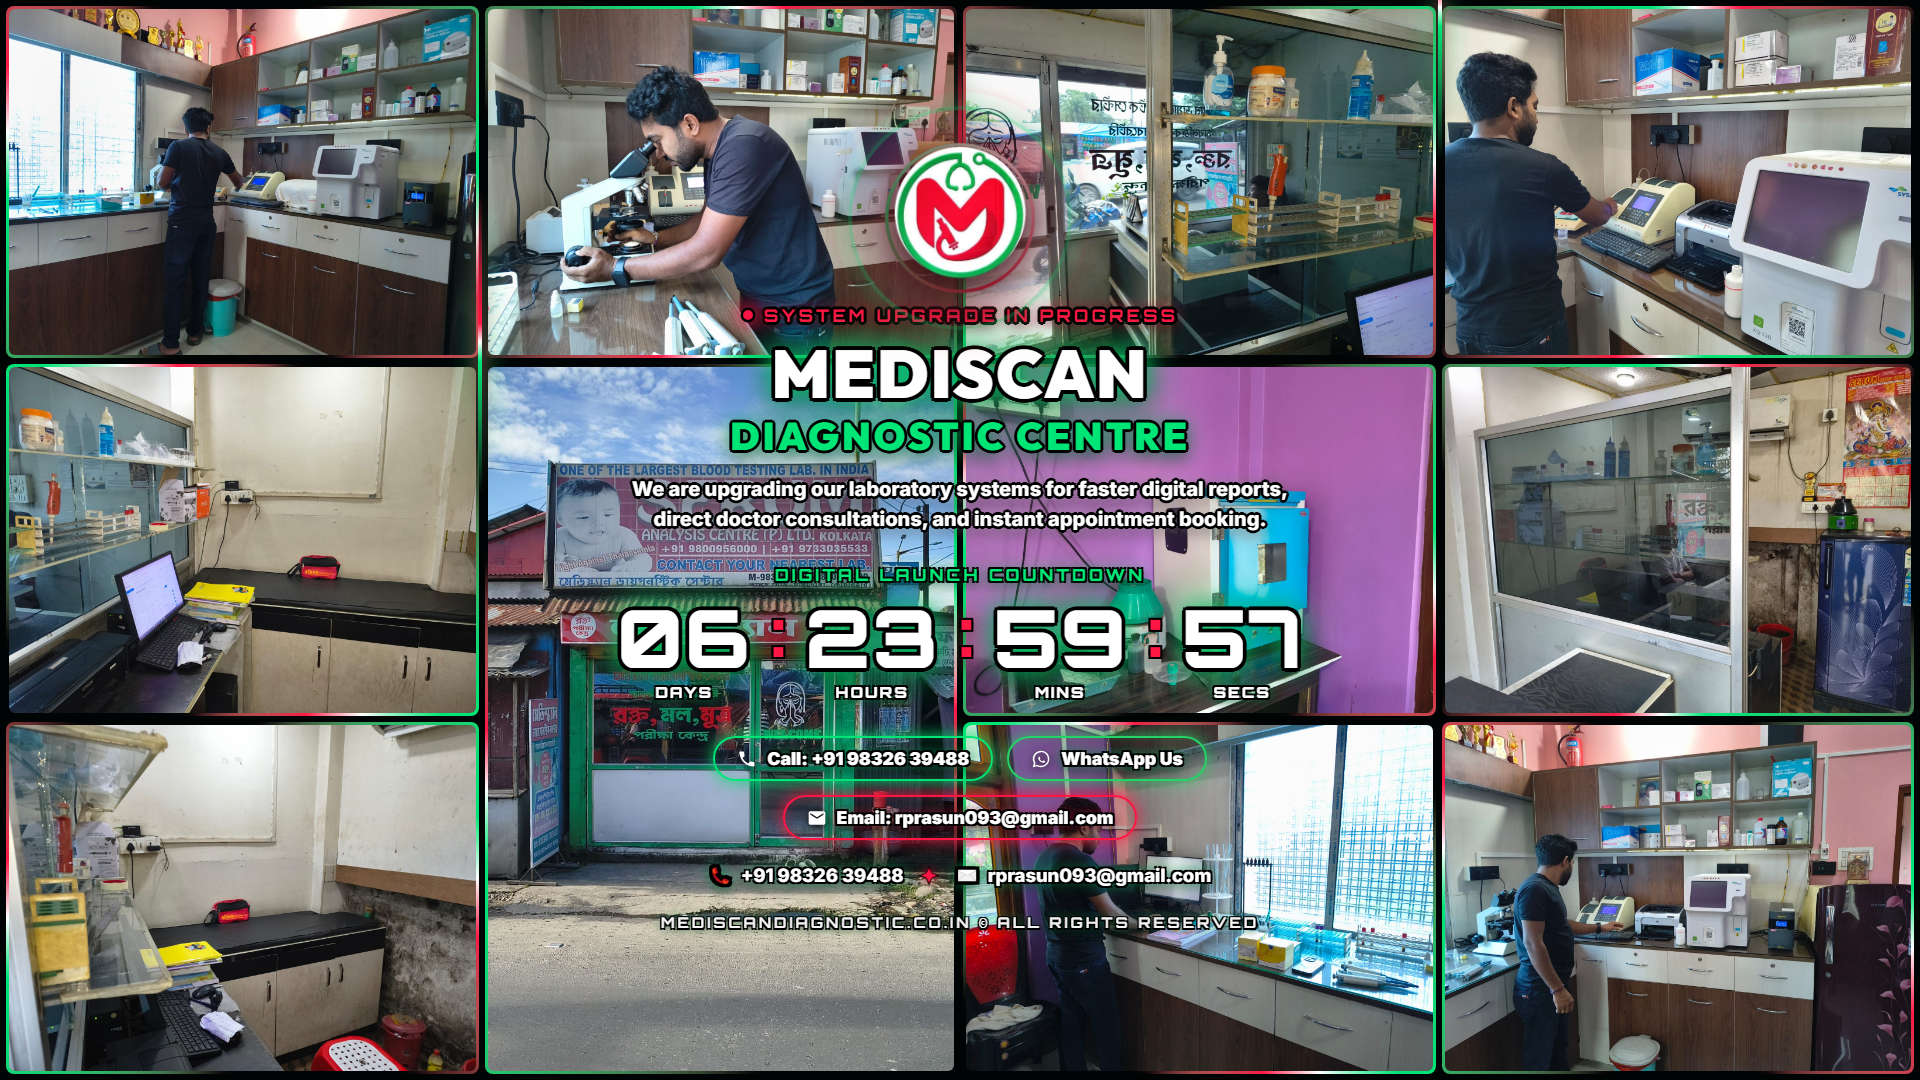
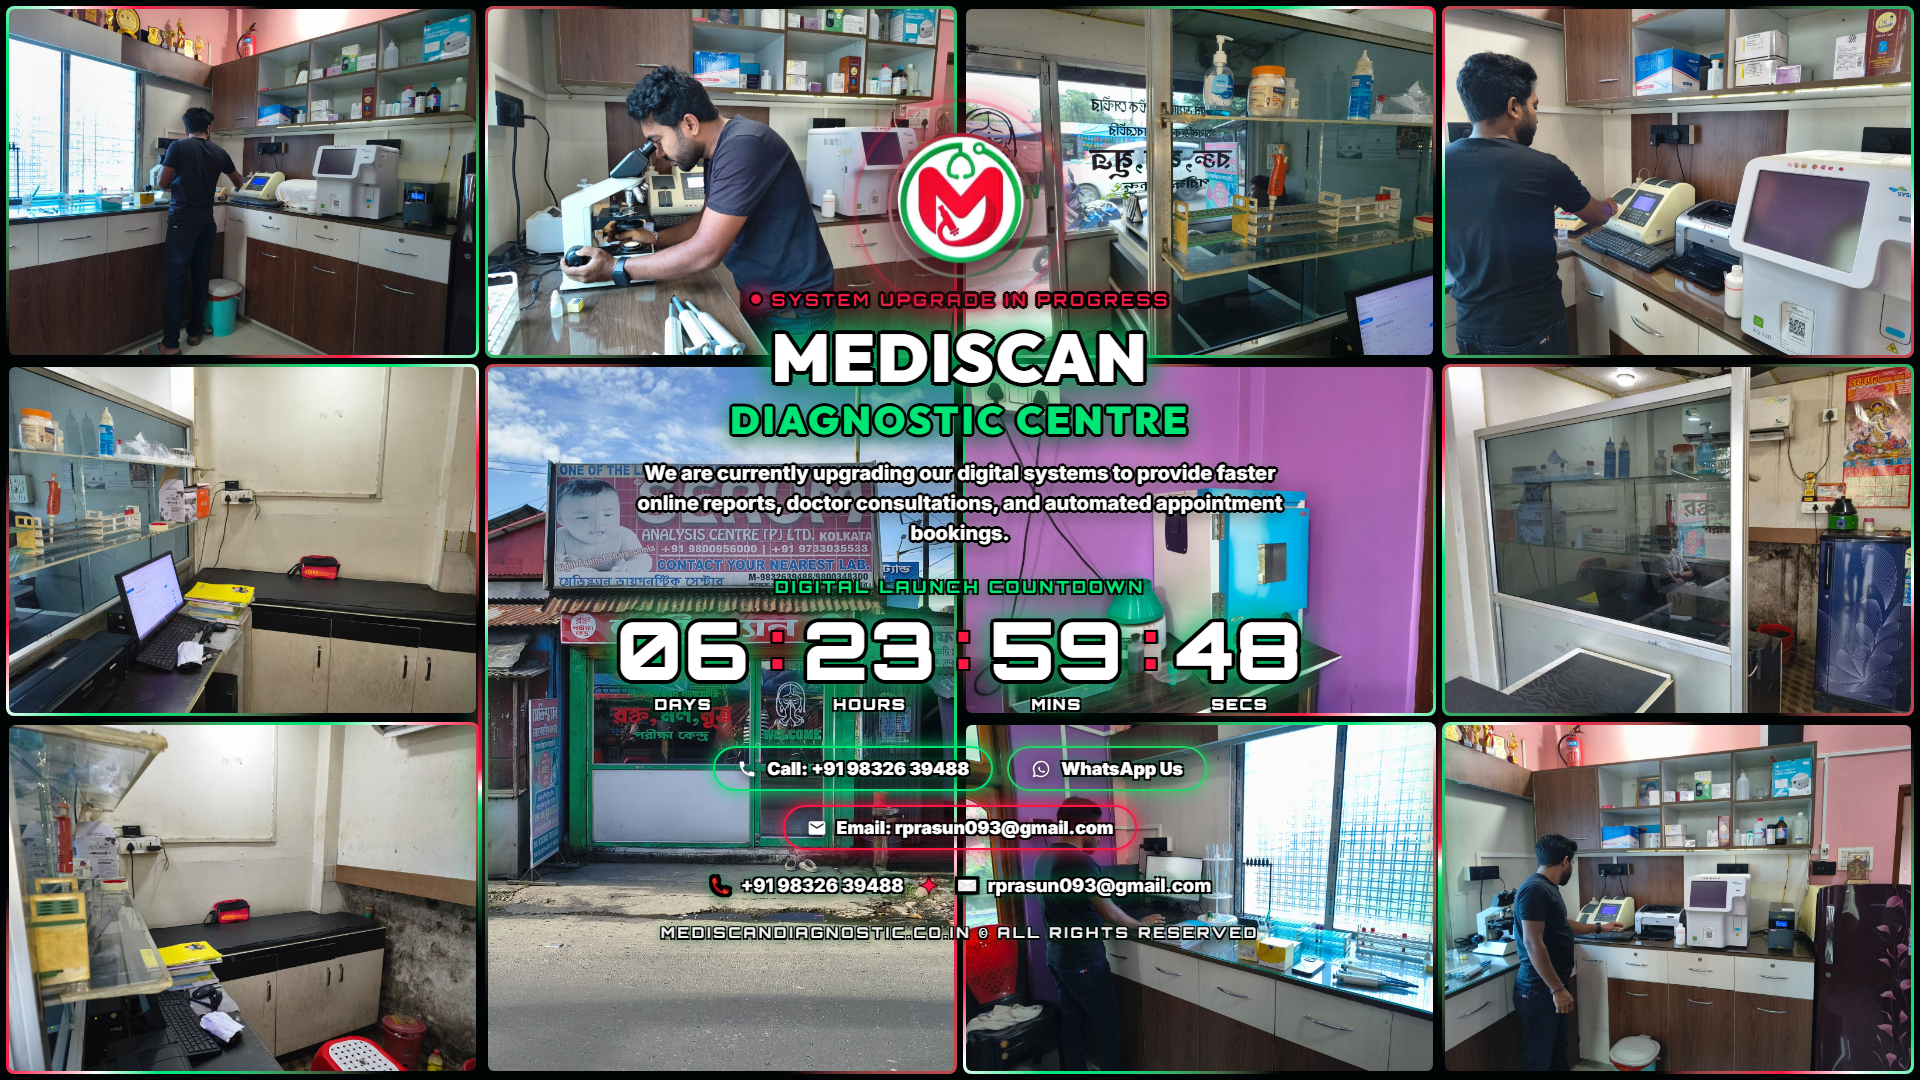
Add files via upload

diff --git a/index.html b/index.html
@@ -10,7 +10,7 @@
   <!-- Google Fonts: Orbitron for digital countdown, Outfit for outlined titles, Inter for body -->
   <link rel="preconnect" href="https://fonts.googleapis.com">
   <link rel="preconnect" href="https://fonts.gstatic.com" crossorigin>
-  <link href="https://fonts.googleapis.com/css2?family=Inter:wght@500;700;800;900&family=Orbitron:wght@700;800;900&family=Outfit:wght@800;900&display=swap" rel="stylesheet">
+  <link href="https://fonts.googleapis.com/css2?family=Inter:wght@600;700;800;900&family=Orbitron:wght@700;800;900&family=Outfit:wght@800;900&display=swap" rel="stylesheet">
 
   <style>
     /* -------------------------------------------------------------
@@ -99,7 +99,7 @@
       filter: drop-shadow(0 0 8px var(--med-green)) drop-shadow(0 0 10px var(--med-red));
     }
 
-    /* Varied speeds and counter-rotation for rich organic movement across joints */
+    /* Varied speeds and counter-rotation for rich dynamic movement across joints */
     .collage-tile:nth-child(2n) .joint-shine {
       animation-duration: 4.4s;
       animation-direction: reverse;
@@ -113,18 +113,14 @@
     }
 
     @keyframes rotateJointShine {
-      0% {
-        transform: rotate(0deg);
-      }
-      100% {
-        transform: rotate(360deg);
-      }
+      0% { transform: rotate(0deg); }
+      100% { transform: rotate(360deg); }
     }
 
     /* Inner photo container */
     .tile-img-box {
       position: absolute;
-      inset: 3px; /* 3px border reveals the running shine along the joint */
+      inset: 3px; /* 3px reveals the moving shine joint border */
       border-radius: 6px;
       overflow: hidden;
       z-index: 3;
@@ -262,8 +258,8 @@
     ------------------------------------------------------------- */
     .logo-wrapper {
       position: relative;
-      width: 140px;
-      height: 140px;
+      width: 135px;
+      height: 135px;
       margin: 0 auto 16px auto;
       display: flex;
       align-items: center;
@@ -333,8 +329,8 @@
     /* Logo image with gentle float + pulse */
     .logo-img {
       position: relative;
-      width: 130px;
-      height: 130px;
+      width: 125px;
+      height: 125px;
       object-fit: contain;
       z-index: 3;
       filter: drop-shadow(0 8px 25px rgba(0, 0, 0, 0.98)) drop-shadow(0 0 16px rgba(0, 230, 118, 0.8));
@@ -377,7 +373,7 @@
       gap: 10px;
       margin-bottom: 12px;
       font-family: 'Orbitron', monospace;
-      font-size: clamp(0.85rem, 1.8vw, 1.1rem);
+      font-size: clamp(0.82rem, 1.7vw, 1.05rem);
       font-weight: 800;
       letter-spacing: 3px;
       text-transform: uppercase;
@@ -449,13 +445,13 @@
 
     .maintenance-message {
       font-family: 'Inter', sans-serif;
-      font-size: clamp(0.98rem, 1.8vw, 1.25rem);
+      font-size: clamp(0.96rem, 1.8vw, 1.25rem);
       font-weight: 800;
       line-height: 1.5;
       width: 100%;
       max-width: 680px;
       color: #ffffff;
-      margin: 0 auto 30px auto;
+      margin: 0 auto 28px auto;
       background: transparent !important;
       paint-order: stroke fill;
       -webkit-text-stroke: 2.8px #000000;
@@ -471,7 +467,7 @@
        Orbitron Monospace, zero background, fully responsive
     ------------------------------------------------------------- */
     .countdown-section {
-      margin-bottom: 34px;
+      margin-bottom: 32px;
       width: 100%;
       max-width: 680px;
       background: transparent !important;
@@ -765,32 +761,31 @@
         letter-spacing: 2px;
       }
       .maintenance-message {
-        font-size: 0.95rem;
-        padding: 0 14px;
-        margin-bottom: 22px;
+        font-size: 0.92rem;
+        padding: 0 8px;
+        margin-bottom: 20px;
         word-break: normal;
-        overflow-wrap: normal;
-        hyphens: none;
+        overflow-wrap: break-word;
       }
       .countdown-section {
-        margin-bottom: 24px;
+        margin-bottom: 22px;
       }
       .digital-clock-grid {
-        gap: 3px;
+        gap: 4px;
         width: 100%;
-        max-width: 350px;
+        max-width: 340px;
       }
       .digital-unit-box {
         min-width: 0;
         flex: 1 1 0;
       }
       .digital-number {
-        font-size: clamp(1.45rem, 6.2vw, 2.1rem);
+        font-size: clamp(1.4rem, 6.2vw, 2rem);
         -webkit-text-stroke: 2.2px #000000;
         letter-spacing: 0px;
       }
       .digital-colon {
-        font-size: clamp(1.2rem, 5vw, 1.8rem);
+        font-size: clamp(1.2rem, 5vw, 1.7rem);
         margin-top: 1px;
         -webkit-text-stroke: 2px #000000;
       }
@@ -821,7 +816,7 @@
         display: none;
       }
       .footer-brand {
-        font-size: 0.68rem;
+        font-size: 0.65rem;
         letter-spacing: 1px;
         max-width: 95vw;
         margin: 20px auto 0 auto;
@@ -960,7 +955,7 @@
 
     <!-- Outlined Message -->
     <p class="maintenance-message">
-      We are upgrading our laboratory systems for faster digital reports, direct doctor consultations, and instant appointment booking.
+      We are currently upgrading our digital systems to provide faster online reports, doctor consultations, and automated appointment bookings.
     </p>
 
     <!-- Digital 7-Day Countdown Timer -->
